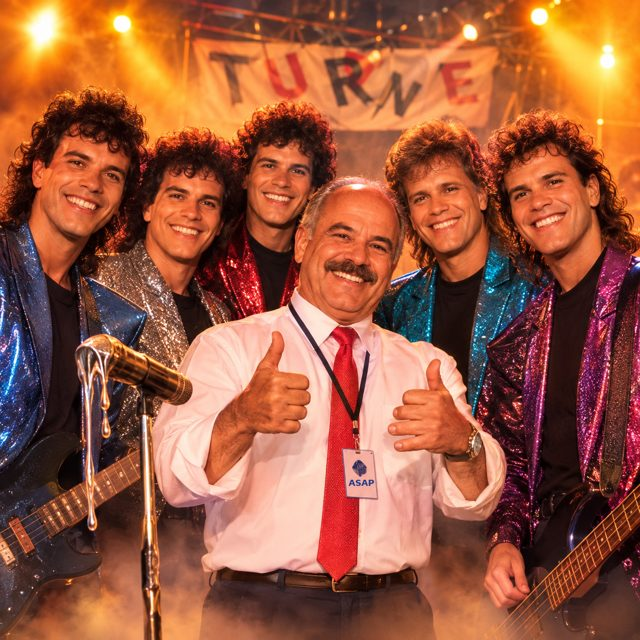
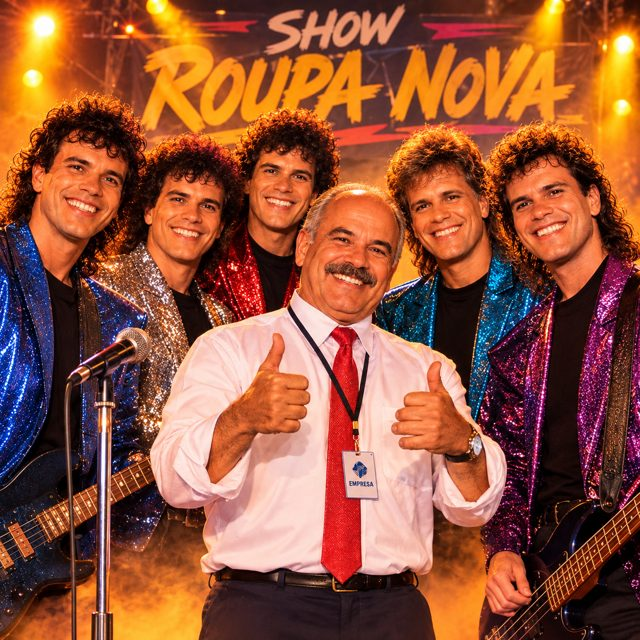
Foto nova do Geraldo com o Roupa Nova no mural
Claude-Session: https://claude.ai/code/session_0186T1Jev64QmSpbduGfhr87

diff --git a/README.md b/README.md
@@ -259,7 +259,7 @@ Robson, Jéssica e Kauã podem largar o emprego. O pedido largado sempre tem 2 i
 
 ## Foto do Geraldo com o Roupa Nova
 
-No mural atrás da mesa do Geraldo tem uma polaroid presa com clipe: ele com "o Roupa Nova" num show (foto feita por IA, com microfone derretendo e faixa "TURNE"). Do lado, um post-it: "Foto 100% real. Não precisa perguntar pro Vini." A imagem fica em `assets/img/geraldo-roupa-nova.jpg`.
+No mural atrás da mesa do Geraldo tem uma polaroid presa com clipe: ele com "o Roupa Nova" num show (foto feita por IA, com faixa "SHOW ROUPA NOVA" e todo mundo com o mesmo sorriso). Do lado, um post-it: "Foto 100% real. Não precisa perguntar pro Vini." A imagem fica em `assets/img/geraldo-roupa-nova.jpg`.
 
 ## A empresa: ASAP Logística
 
